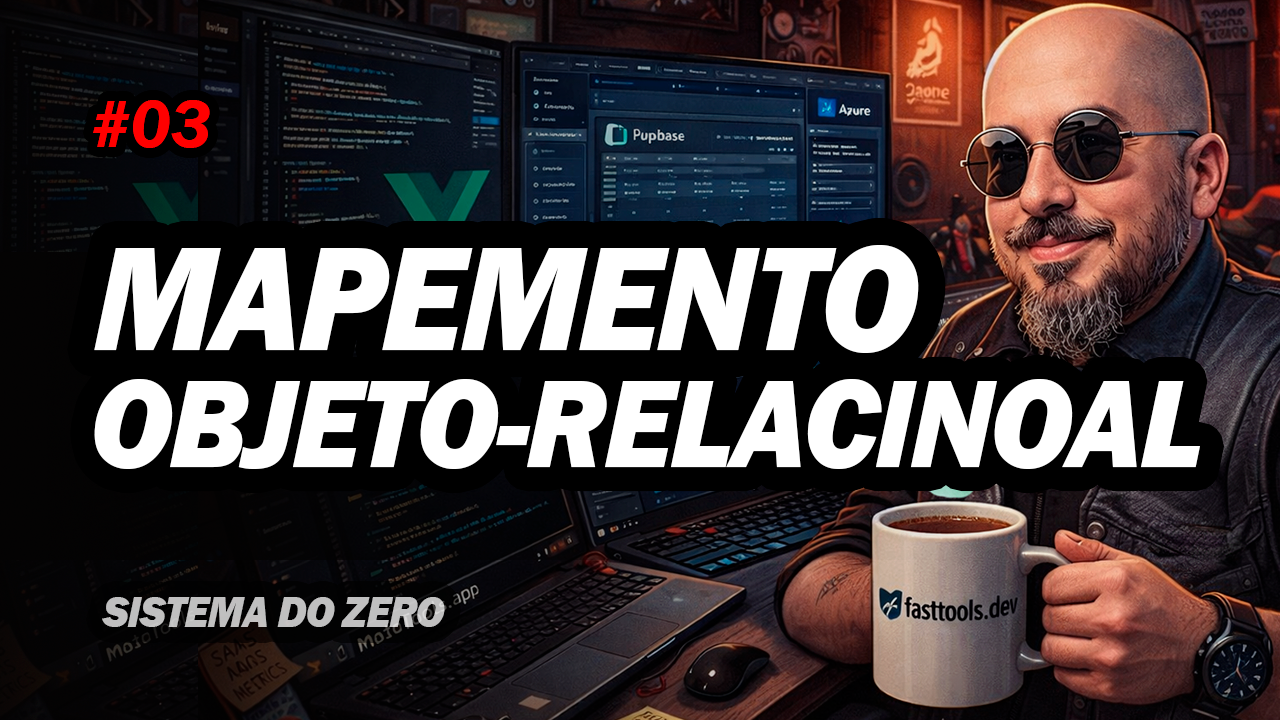
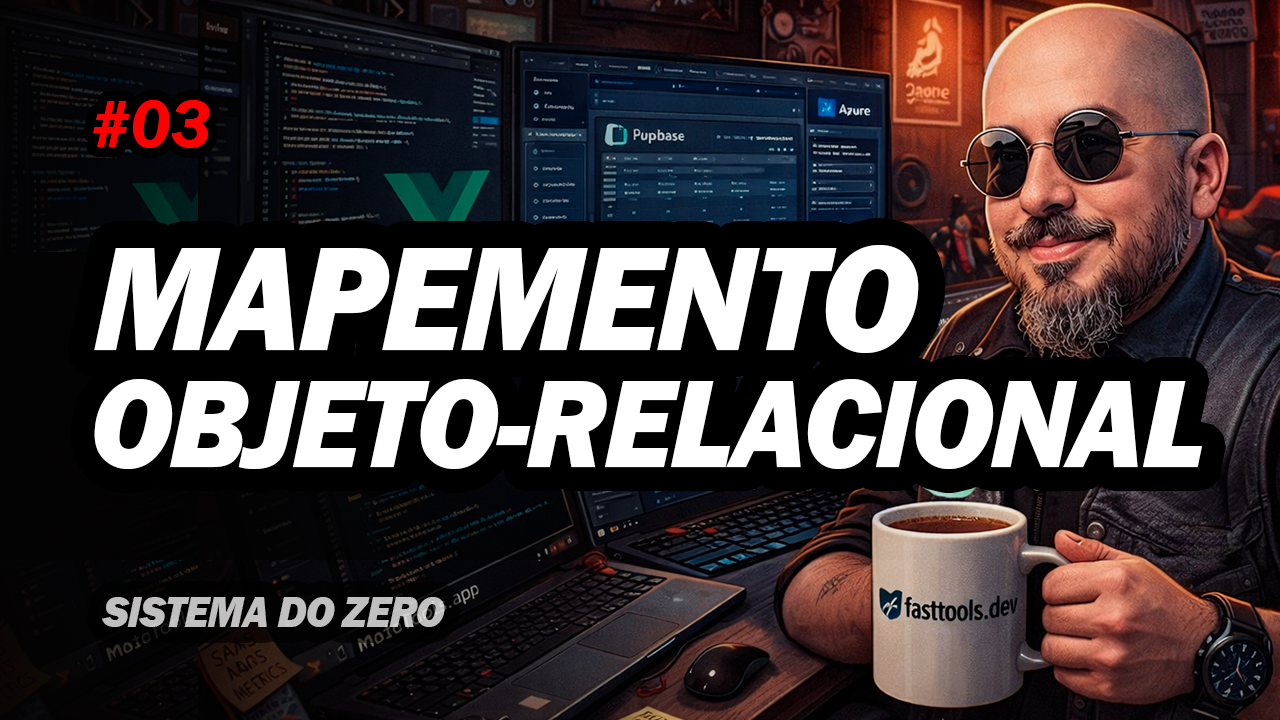
fix - typo

Changed region(s): [[0.6875, 0.4889, 0.8438, 0.7028], [0.875, 0.55, 0.9062, 0.6417]]

diff --git a/tools/overlay/countdown.html b/tools/overlay/countdown.html
@@ -88,7 +88,7 @@
         now.getMonth(),
         now.getDate(),
         23,
-        40,
+        45,
         0,
         0
       );
